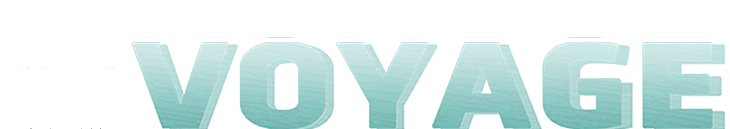
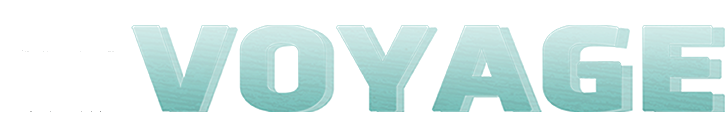
Changed main page layout to the left

diff --git a/app/assets/stylesheets/mobile.css.scss b/app/assets/stylesheets/mobile.css.scss
@@ -56,7 +56,6 @@ h1, h2, h3, h4, h5, h6 {
 
 .homepage {
   font-size: 1.3em;
-  text-align: right;
 }
 
 a {
@@ -65,7 +64,6 @@ a {
 }
 
 h2.home_title {
-  text-align: right;
   padding-top: 30px;
 }
 
